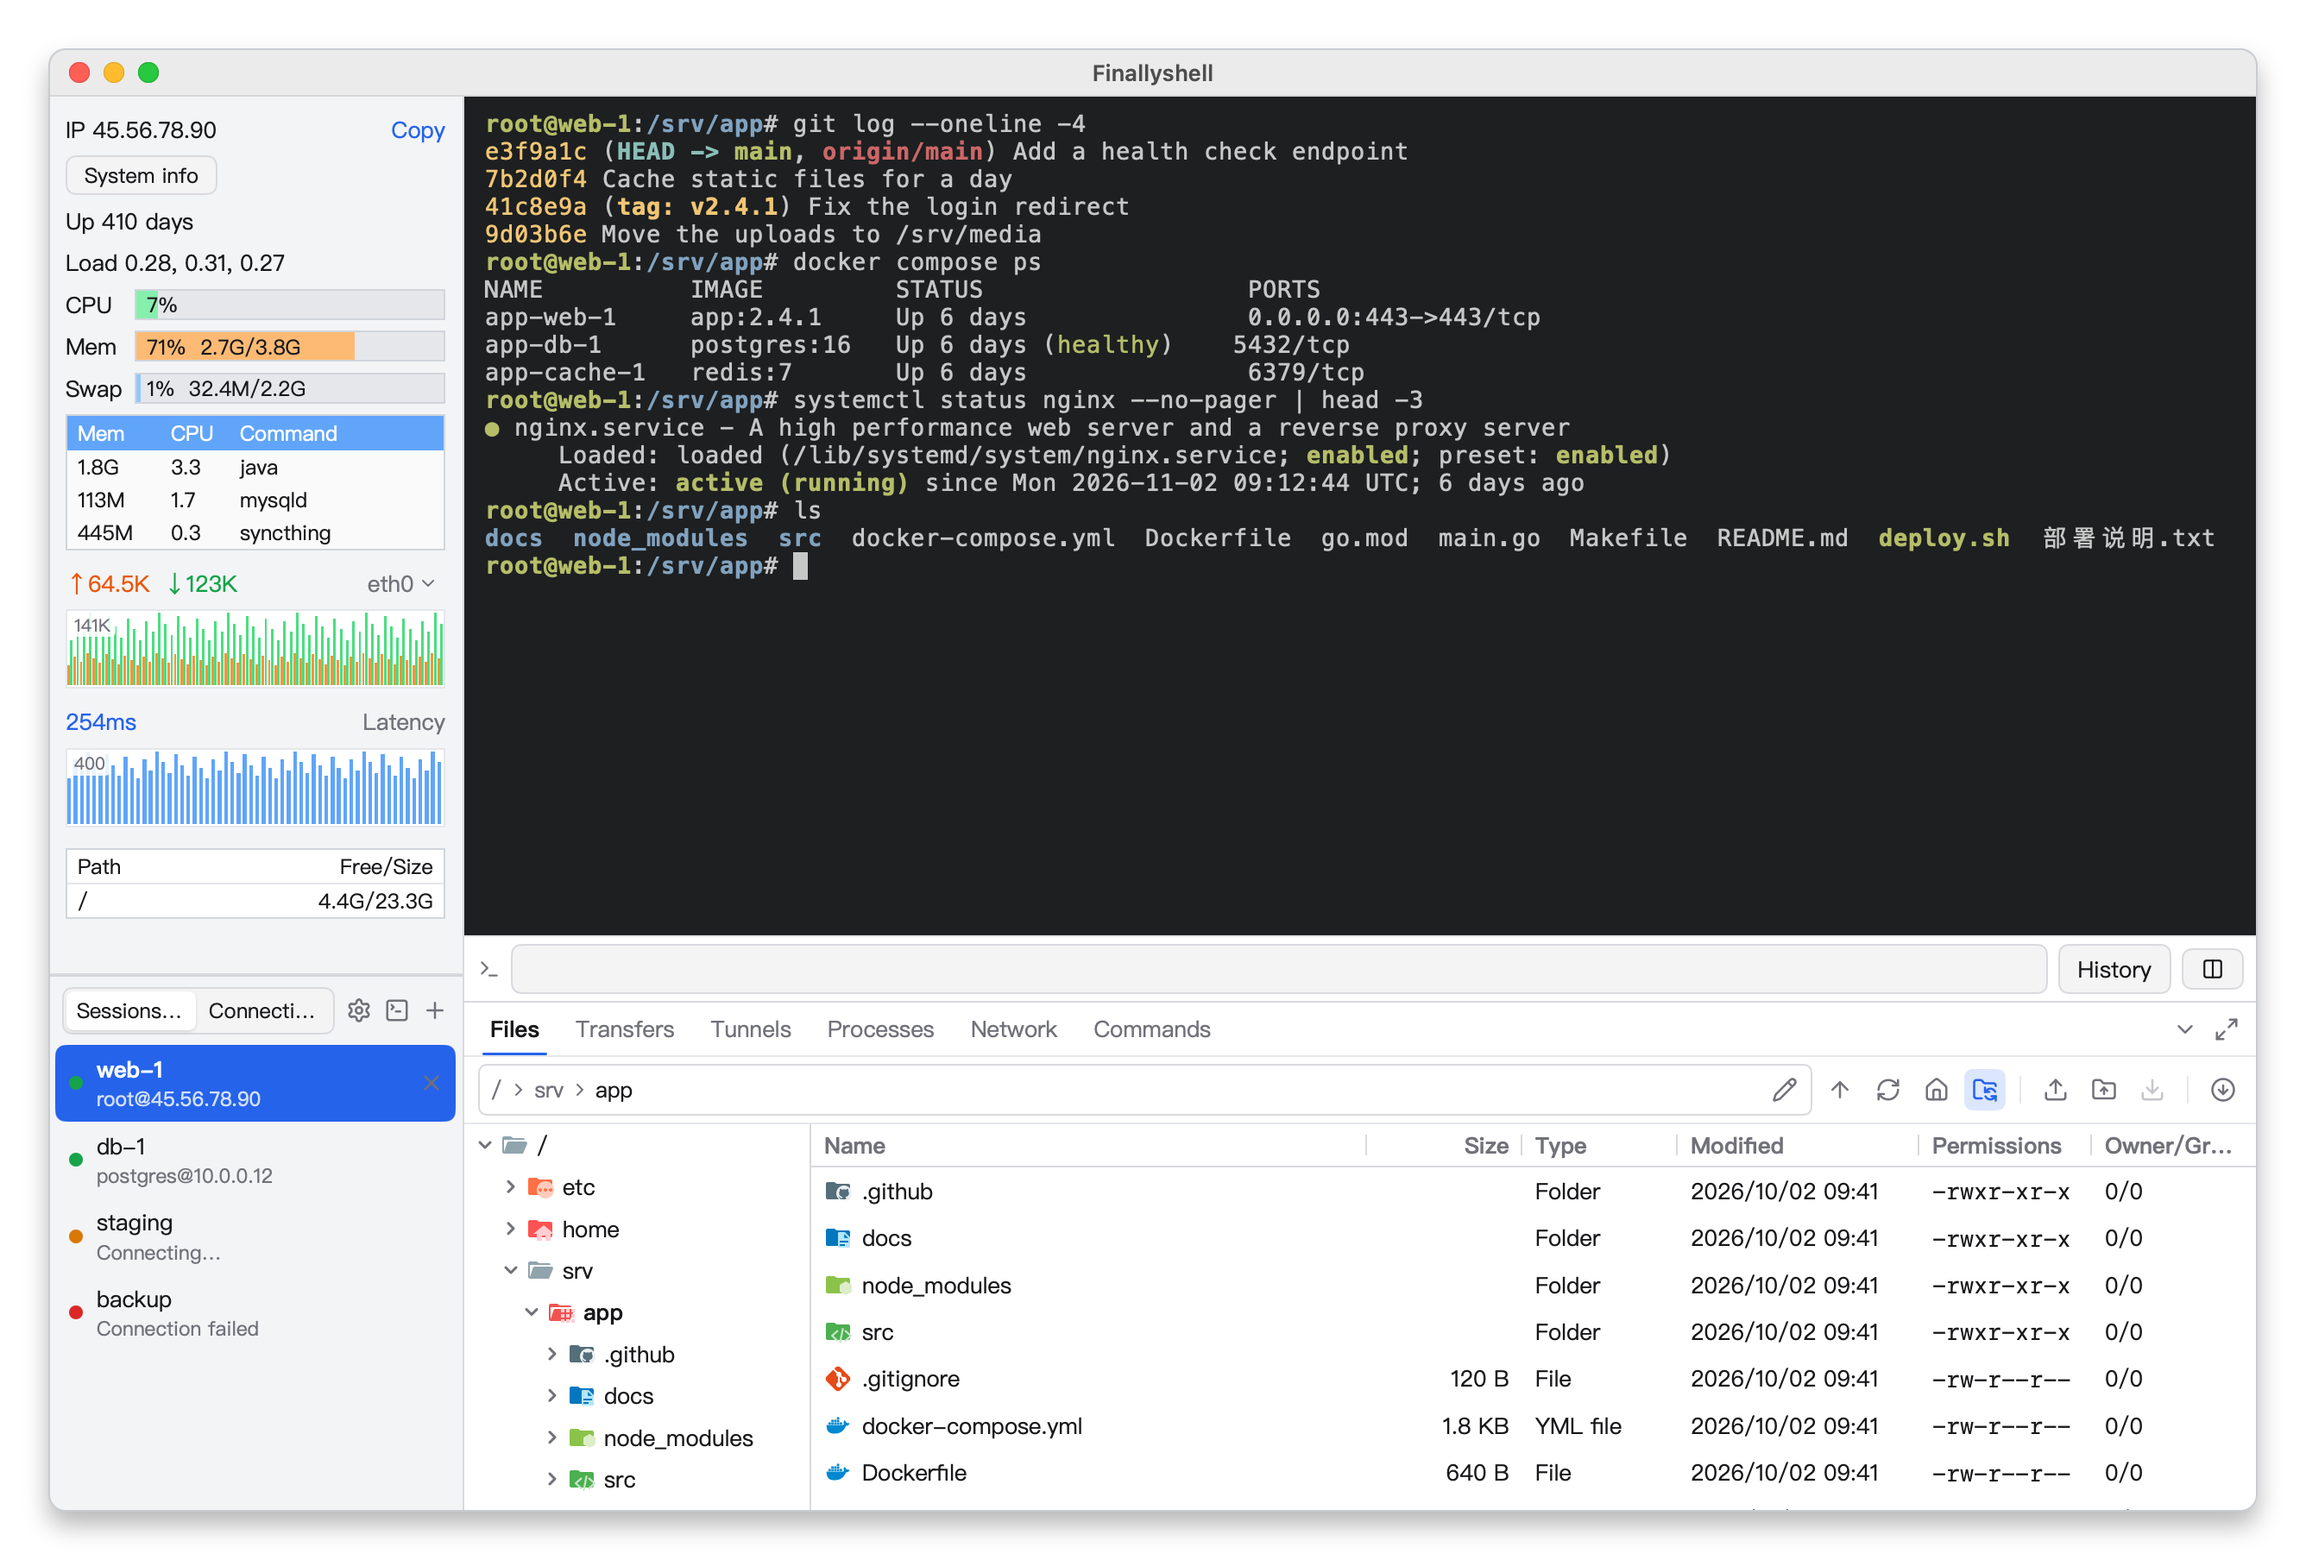
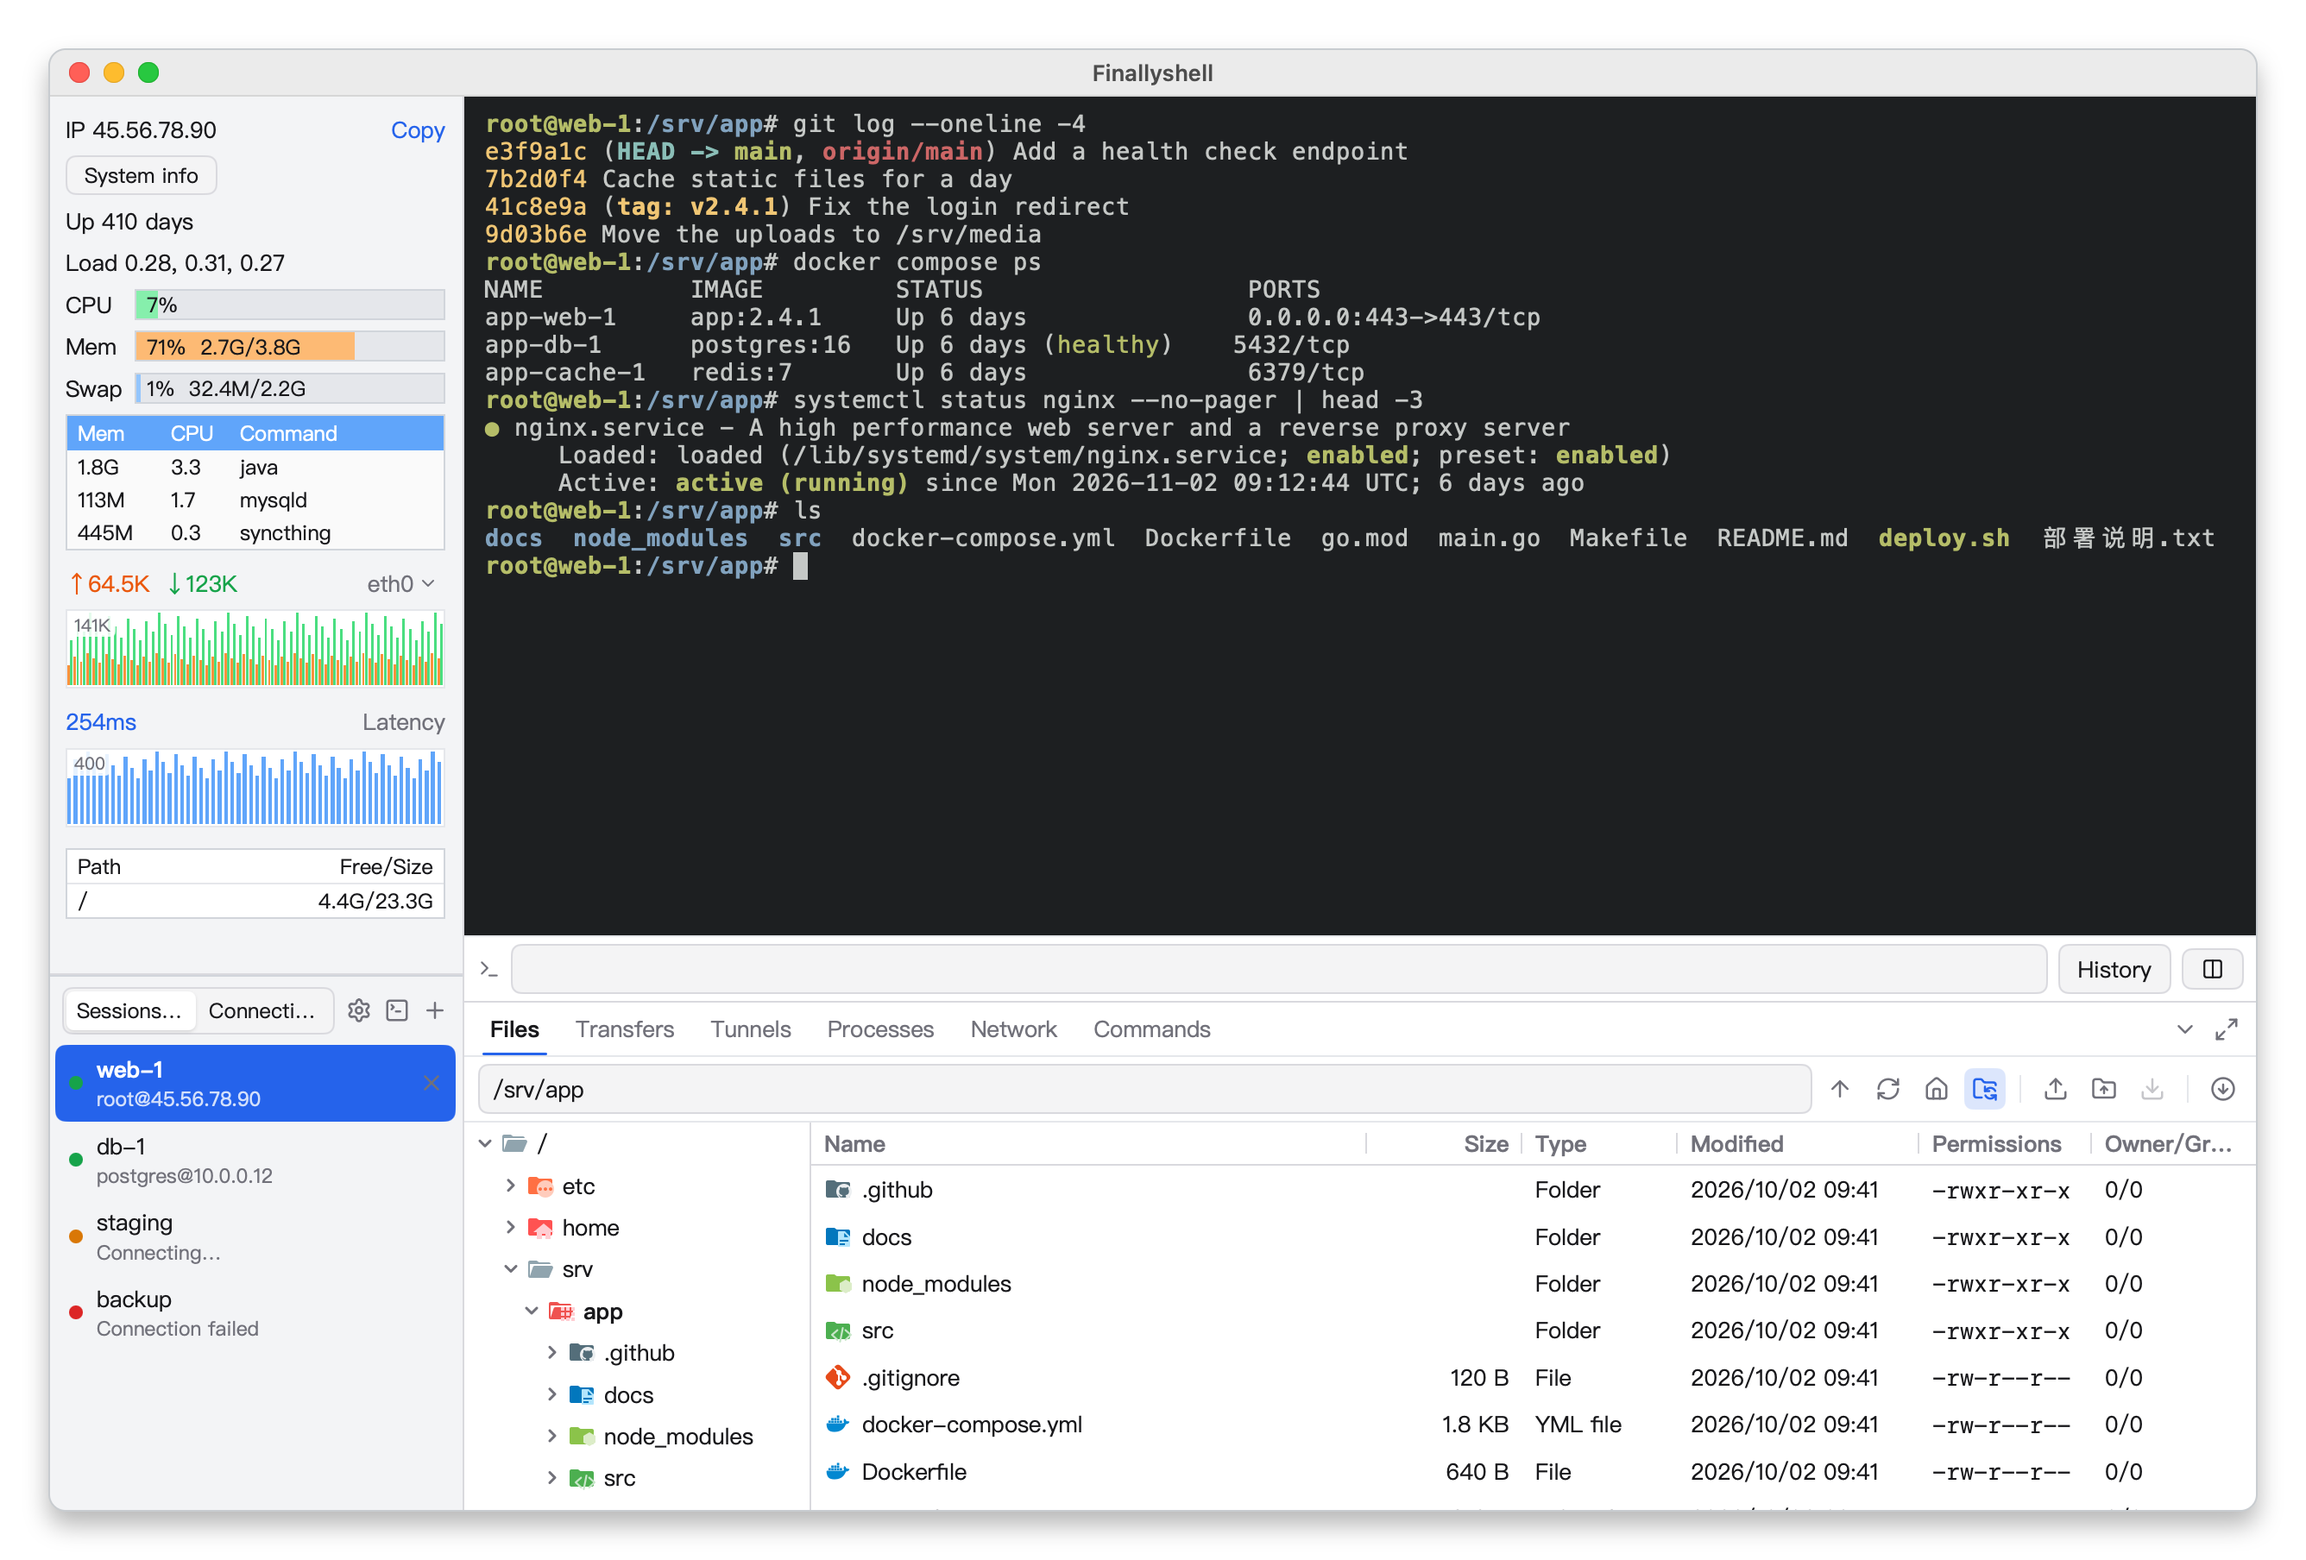
feat(app): make the SFTP path bar style configurable
Default to the editable path field and let users opt into breadcrumbs
in File manager options. Apply each choice immediately and save it with
the other settings. Update English and Simplified Chinese documentation
and refresh the affected README screenshots.

Refs TooonyChen/finallyshell#210

diff --git a/internal/app/files_path_test.go b/internal/app/files_path_test.go
@@ -5,6 +5,7 @@ import (
 	"path"
 	"testing"
 
+	"finallyshell/internal/config"
 	"finallyshell/locales"
 
 	"github.com/egoist/mygo/ui"
@@ -42,6 +43,43 @@ func TestFilePathBar(t *testing.T) {
 			t.Fatal("path editor button is missing")
 		}
 		tt.ClickAt(b.Bounds.X+b.Bounds.W/2, b.Bounds.Y+b.Bounds.H/2)
+	}
+	a.openDir(s, child)
+	waitDir(child)
+	checkInput := func(want string) {
+		t.Helper()
+		in, ok := tt.AccessByRole(ui.RoleTextField, locales.EditRemotePath())
+		if !ok || in.Value != want {
+			t.Fatalf("path input = %q, present %v; want %q", in.Value, ok, want)
+		}
+		if _, ok := tt.AccessByRole(ui.RoleToggleButton, locales.EditRemotePath()); ok {
+			t.Fatal("path input mode shows the pencil")
+		}
+	}
+	checkInput(child)
+	click(locales.EditRemotePath())
+	tt.Key(ui.Cmd, ui.KeyA)
+	tt.Type("..")
+	tt.Key(0, ui.KeyEnter)
+	waitDir(parent)
+	checkInput(parent)
+
+	a.openOptions()
+	options := p.show(t, WindowOptions)
+	choose := func(label string) {
+		t.Helper()
+		if err := options.Click(label); err != nil {
+			t.Fatal(err)
+		}
+		tt.Frame()
+	}
+	choose(locales.OptionsFileManager())
+	if radio, ok := options.AccessByRole(ui.RoleRadio, locales.FilePathBarInput()); !ok || !radio.Checked {
+		t.Fatal("path input is not selected by default")
+	}
+	choose(locales.FilePathBarBreadcrumbs())
+	if !a.settings.FilePathBreadcrumbs || !config.LoadSettings().FilePathBreadcrumbs {
+		t.Fatal("breadcrumb preference was not saved")
 	}
 	a.openDir(s, child)
 	waitDir(child)
@@ -89,4 +127,11 @@ func TestFilePathBar(t *testing.T) {
 		t.Fatalf("hidden ancestor: %v, menu %q", err, tt.Menu())
 	}
 	waitDir(home)
+
+	edit("/unfinished")
+	choose(locales.FilePathBarInput())
+	checkInput(home)
+	if s.files.pathEditing || a.settings.FilePathBreadcrumbs || config.LoadSettings().FilePathBreadcrumbs {
+		t.Fatal("switching to path input did not clear the draft and save the choice")
+	}
 }

diff --git a/locales/catalog_gen.go b/locales/catalog_gen.go
@@ -7094,6 +7094,36 @@ func (msgs Messages) OptionsFileManager() string {
 	return Catalog.Format(msgs.locale, "optionsFileManager", nil)
 }
 
+// FilePathBarStyle says "Path bar style"
+// in the language the app shows.
+func FilePathBarStyle() string { return In(i18n.Locale()).FilePathBarStyle() }
+
+// FilePathBarStyle says "Path bar style"
+// in the language of msgs.
+func (msgs Messages) FilePathBarStyle() string {
+	return Catalog.Format(msgs.locale, "filePathBarStyle", nil)
+}
+
+// FilePathBarInput says "Path input"
+// in the language the app shows.
+func FilePathBarInput() string { return In(i18n.Locale()).FilePathBarInput() }
+
+// FilePathBarInput says "Path input"
+// in the language of msgs.
+func (msgs Messages) FilePathBarInput() string {
+	return Catalog.Format(msgs.locale, "filePathBarInput", nil)
+}
+
+// FilePathBarBreadcrumbs says "Breadcrumb navigation"
+// in the language the app shows.
+func FilePathBarBreadcrumbs() string { return In(i18n.Locale()).FilePathBarBreadcrumbs() }
+
+// FilePathBarBreadcrumbs says "Breadcrumb navigation"
+// in the language of msgs.
+func (msgs Messages) FilePathBarBreadcrumbs() string {
+	return Catalog.Format(msgs.locale, "filePathBarBreadcrumbs", nil)
+}
+
 // OptionsFileIcons says "File icon theme"
 // in the language the app shows.
 func OptionsFileIcons() string { return In(i18n.Locale()).OptionsFileIcons() }

diff --git a/internal/config/sync_test.go b/internal/config/sync_test.go
@@ -23,7 +23,7 @@ func TestSettingsSyncDecided(t *testing.T) {
 func TestSyncedSettingsRoundTrip(t *testing.T) {
 	s := Settings{
 		Language: "zh-Hans", TermFontSize: 15, TermTheme: "Nord", SidebarWidth: 300,
-		DownloadDir: "/home/me/dl", TermBackground: "bg.png",
+		DownloadDir: "/home/me/dl", TermBackground: "bg.png", FilePathBreadcrumbs: true,
 		Sync: SyncSettings{Provider: SyncGist},
 	}
 	m := SyncedSettings(s)
@@ -32,14 +32,14 @@ func TestSyncedSettingsRoundTrip(t *testing.T) {
 			t.Errorf("%s is synced", k)
 		}
 	}
-	if string(m["termTheme"]) != `"Nord"` || string(m["termFontSize"]) != "15" {
+	if string(m["termTheme"]) != `"Nord"` || string(m["termFontSize"]) != "15" || string(m["filePathBreadcrumbs"]) != "true" {
 		t.Errorf("synced = %s", m)
 	}
 
 	// Another device's: the theme changed, the font size reset.
 	other := map[string]json.RawMessage{"language": json.RawMessage(`"zh-Hans"`), "termTheme": json.RawMessage(`"Dracula"`)}
 	got := WithSyncedSettings(s, other)
-	if got.TermTheme != "Dracula" || got.TermFontSize != 0 {
+	if got.TermTheme != "Dracula" || got.TermFontSize != 0 || got.FilePathBreadcrumbs {
 		t.Errorf("synced settings not applied: %+v", got)
 	}
 	if got.SidebarWidth != 300 || got.DownloadDir != "/home/me/dl" || got.TermBackground != "bg.png" || got.Sync.Provider != SyncGist {

diff --git a/internal/app/files.go b/internal/app/files.go
@@ -96,6 +96,9 @@ func (a *App) listDir(s *Session, dir string, quiet bool) {
 	f.loading = true
 	if !quiet {
 		f.err = nil
+		if !a.settings.FilePathBreadcrumbs {
+			f.pathEdit = dir
+		}
 	}
 	sc := s.sftp
 	go func() {
@@ -108,6 +111,9 @@ func (a *App) listDir(s *Session, dir string, quiet bool) {
 			if err != nil {
 				if !quiet {
 					f.err = &dirError{dir, err}
+					if !a.settings.FilePathBreadcrumbs {
+						f.pathEdit = f.cwd
+					}
 				}
 				return
 			}
@@ -222,7 +228,11 @@ func (a *App) filePanel(c *ui.Context) {
 	}
 	f := &s.files
 	ui.Column(c.Key(s.ID)).Grow(1).Children(func() {
-		ui.Row(c).Padding(4, 8).Gap(4).AlignItems(ui.Center).BorderWidth(0, 0, 1, 0).BorderColor(colors.line).Children(func() {
+		toolbar := ui.Row(c).Padding(4, 8).Gap(4).BorderWidth(0, 0, 1, 0).BorderColor(colors.line)
+		if a.settings.FilePathBreadcrumbs {
+			toolbar.AlignItems(ui.Center)
+		}
+		toolbar.Children(func() {
 			a.filePathBar(c, s)
 			if widgets.IconButton(c, "arrow-up", locales.ParentFolder()).Clicked() && f.cwd != "" {
 				a.openDir(s, path.Dir(f.cwd))

diff --git a/internal/app/options.go b/internal/app/options.go
@@ -88,7 +88,7 @@ var optionPages = []optionPage{
 	},
 	{
 		id: pageFiles, title: locales.OptionsFileManager,
-		view: nil,
+		view: (*App).fileManagerPage,
 	},
 	{
 		id: pageFileIcons, parent: pageFiles, title: locales.OptionsFileIcons,
@@ -180,6 +180,21 @@ func (a *App) generalPage(c *ui.Context) {
 	})
 
 	a.updatesSection(c)
+}
+
+func (a *App) fileManagerPage(c *ui.Context) {
+	ui.Text(c, locales.FilePathBarStyle()).Bold()
+	breadcrumbs := a.settings.FilePathBreadcrumbs
+	ui.RadioGroup(c, func() {
+		ui.Radio(c, &breadcrumbs, false, locales.FilePathBarInput())
+		ui.Radio(c, &breadcrumbs, true, locales.FilePathBarBreadcrumbs())
+	}).Row().Gap(16).Label(locales.FilePathBarStyle())
+	if breadcrumbs != a.settings.FilePathBreadcrumbs {
+		a.changeSettings(func() {
+			a.settings.FilePathBreadcrumbs = breadcrumbs
+			a.resetFilePathEdits()
+		})
+	}
 }
 
 // changeSettings changes the settings with fn, saves them and shows the

diff --git a/internal/app/files_path.go b/internal/app/files_path.go
@@ -13,6 +13,13 @@ import (
 
 func (a *App) filePathBar(c *ui.Context, s *Session) {
 	f := &s.files
+	if !a.settings.FilePathBreadcrumbs {
+		if ui.TextInput(c.Key("file-path-input"), &f.pathEdit).Grow(1).MinWidth(0).Label(locales.EditRemotePath()).Submitted() {
+			a.openDir(s, f.pathEdit)
+		}
+		return
+	}
+
 	editing := f.pathEditing
 	border := theme.Border
 	if editing {
@@ -54,6 +61,13 @@ func (a *App) filePathBar(c *ui.Context, s *Session) {
 			c.Invalidate()
 		}
 	})
+}
+
+// resetFilePathEdits keeps a draft from one style from appearing in the other.
+func (a *App) resetFilePathEdits() {
+	for _, s := range a.sessions {
+		s.files.pathEditing, s.files.pathEdit = false, s.files.cwd
+	}
 }
 
 func (a *App) fileBreadcrumbs(c *ui.Context, s *Session) {

diff --git a/internal/config/config.go b/internal/config/config.go
@@ -223,6 +223,9 @@ type Settings struct {
 	// "<publisher>.<extension>/<theme>" for one installed from a VSIX or in
 	// an editor such as VS Code.
 	FileIconTheme string `json:"fileIconTheme,omitempty"`
+	// FilePathBreadcrumbs shows clickable folders in the file panel's path
+	// bar. The default is an editable path field.
+	FilePathBreadcrumbs bool `json:"filePathBreadcrumbs,omitempty"`
 	// NoFollowTerminalDir keeps the file panel where the user browsed it
 	// when the shell's working directory changes; by default the panel
 	// goes to it (the toggle in the panel's toolbar).

diff --git a/internal/config/sync.go b/internal/config/sync.go
@@ -93,7 +93,7 @@ var (
 		"termBackgroundFit", "termBackgroundOpacity",
 		"keepManagerOpen",
 		"fileIconTheme", // only the themes every copy has: see portable
-		"noFollowTerminalDir", "noAgentIcons",
+		"filePathBreadcrumbs", "noFollowTerminalDir", "noAgentIcons",
 		"noCommandBar", "noCommandBarPaths", "noCommandBarHistory", "noCommandBarCommands", "noServerHistory",
 	}
 	localSettings = []string{

diff --git a/internal/app/sync.go b/internal/app/sync.go
@@ -421,6 +421,9 @@ func (a *App) applyPayload(p *cloudsync.Payload) {
 		if a.settings.Appearance.Normal() != before.Appearance.Normal() {
 			a.plat.SetAppearance(a.settings.Appearance.Normal())
 		}
+		if a.settings.FilePathBreadcrumbs != before.FilePathBreadcrumbs {
+			a.resetFilePathEdits()
+		}
 		a.applyTerminalSettings()
 		a.applyAgentIcons()
 	}

diff --git a/docs/zh-CN/features.md b/docs/zh-CN/features.md
@@ -530,7 +530,7 @@ Ctrl+Shift+Enter（macOS 是 Cmd+Enter）隐藏左边栏和下面的文件面板
 
 ## 文件面板
 
-右下的“文件”页用 SFTP 浏览服务器：左边是目录树，右边是文件表格（可多选）。点击路径栏中的任意上级目录可直接跳转。空间不足时，靠左的目录可以从省略号菜单中打开。点击铅笔按钮可以输入或粘贴路径，按回车打开，按 Esc 取消。
+右下的“文件”页用 SFTP 浏览服务器：左边是目录树，右边是文件表格（可多选）。地址栏默认是路径输入框，可以输入或粘贴路径，再按回车打开。在“选项 › 文件管理 › 地址栏样式”选择“面包屑导航”可切换所有会话的地址栏样式。面包屑模式下，点击上级目录可直接跳转。空间不足时，靠左的目录可以从省略号菜单中打开。点击铅笔可以编辑路径，按回车打开，按 Esc 取消。
 
 ### 跟随终端目录
 

diff --git a/docs/en/features.md b/docs/en/features.md
@@ -1317,9 +1317,12 @@ In `settings.json` these are `termFontFamily`, `termFontSize`,
 
 The "Files" tab at the bottom right browses the server over SFTP: a folder
 tree on the left and a file table on the right (with multiple selection).
-Click a folder in the path bar to go straight to it. When space is tight,
-the ellipsis menu holds the earlier folders. Click the pencil to type or
-paste a path, then press Enter to open it or Escape to cancel.
+The path bar defaults to a text field where you can type or paste a path
+and press Enter to open it. Choose **Breadcrumb navigation** under
+**Options › File manager › Path bar style** to switch modes in all sessions.
+In breadcrumb mode, click a folder in the path bar to go straight to it.
+When space is tight, the ellipsis menu holds the earlier folders. Click the
+pencil to edit the path, then press Enter to open it or Escape to cancel.
 
 ### Following the terminal's folder
 
